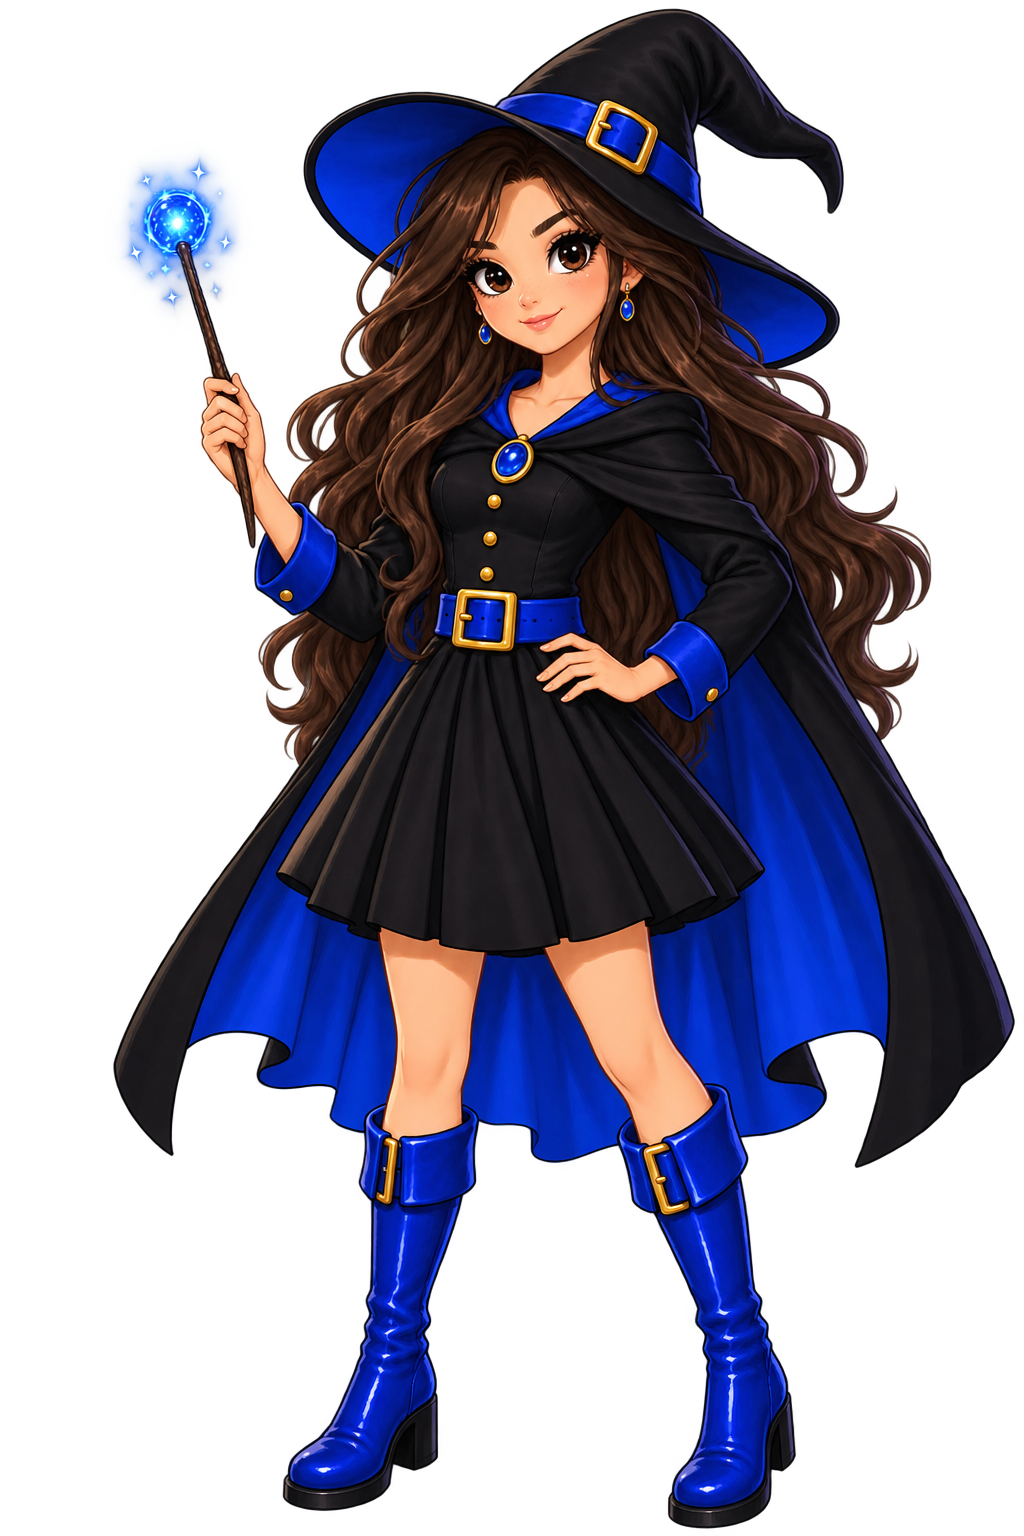
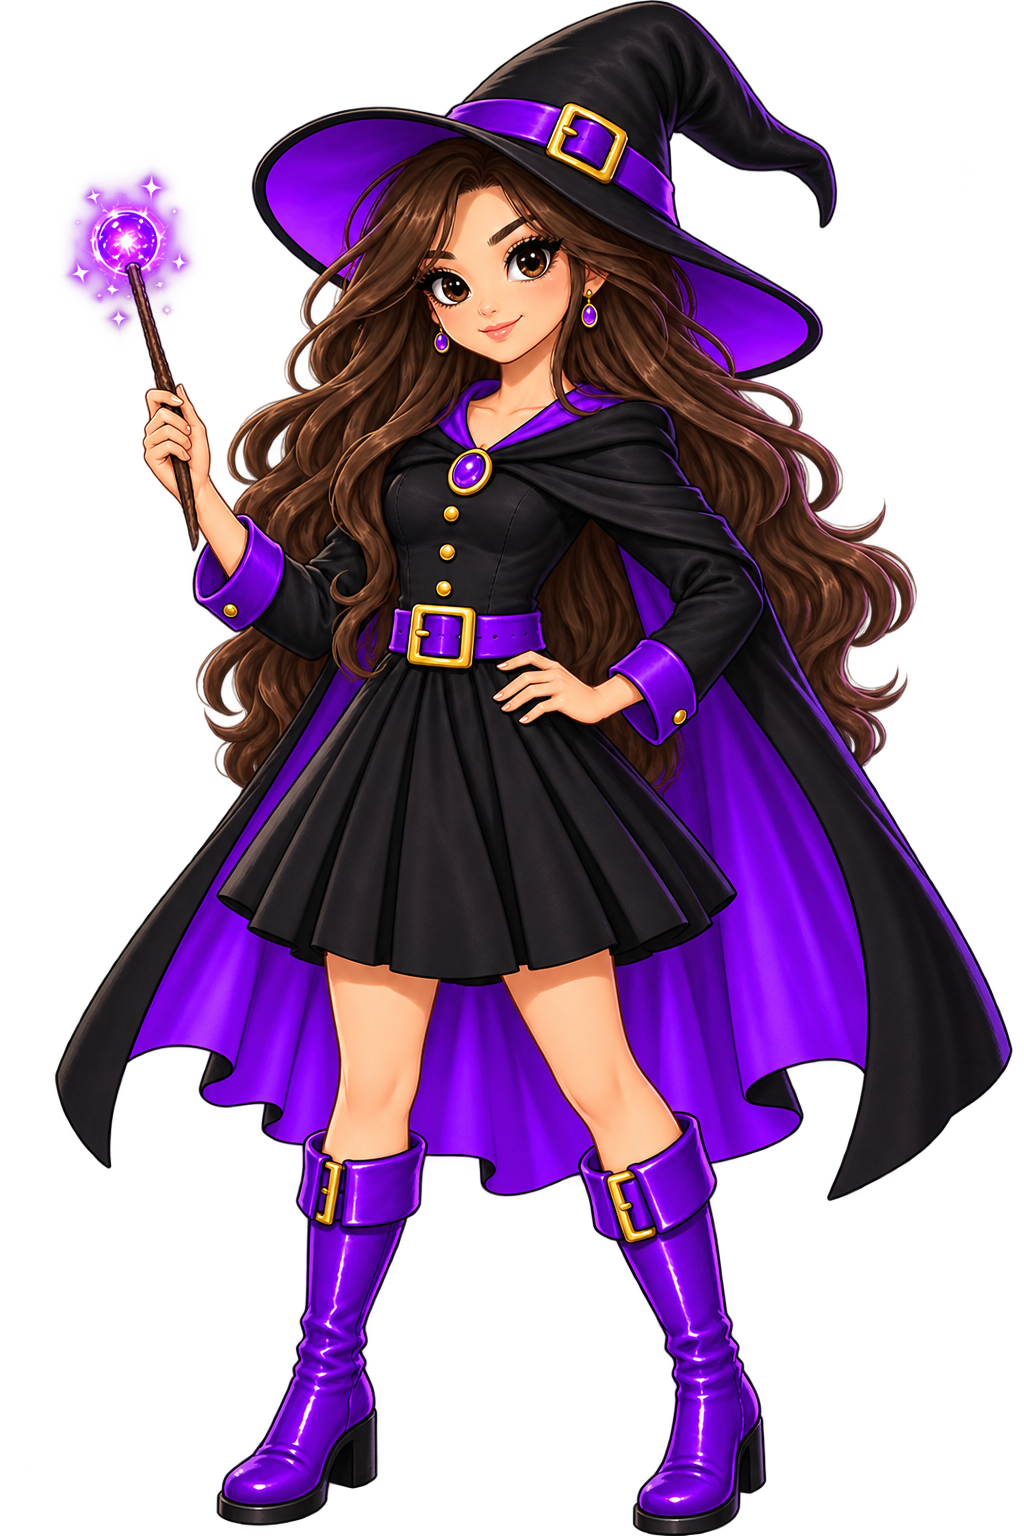
Update website

diff --git a/index.html b/index.html
@@ -126,10 +126,10 @@ h1{
 h1 span{display:block;color:var(--pink)}
 .heroFloat{
   position:absolute;
-  width:clamp(170px,19vw,300px);
+  width:clamp(140px,15vw,225px);
   height:auto;
-  right:1%;
-  top:43%;
+  right:23%;
+  top:22%;
   transform:translateY(-50%);
   z-index:3;
   pointer-events:none;
@@ -378,7 +378,7 @@ footer a{
   .logo{font-size:1rem}
   .logoMark{width:40px;height:40px}
   .heroText{padding:28px;border-radius:34px}
-  .heroFloat{width:145px;right:1%;top:43%}
+  .heroFloat{width:118px;right:20%;top:23%}
   .quickLinks{grid-template-columns:1fr}
   .castItem{display:block}
   .castItem span{display:block;text-align:left;margin-top:4px}
